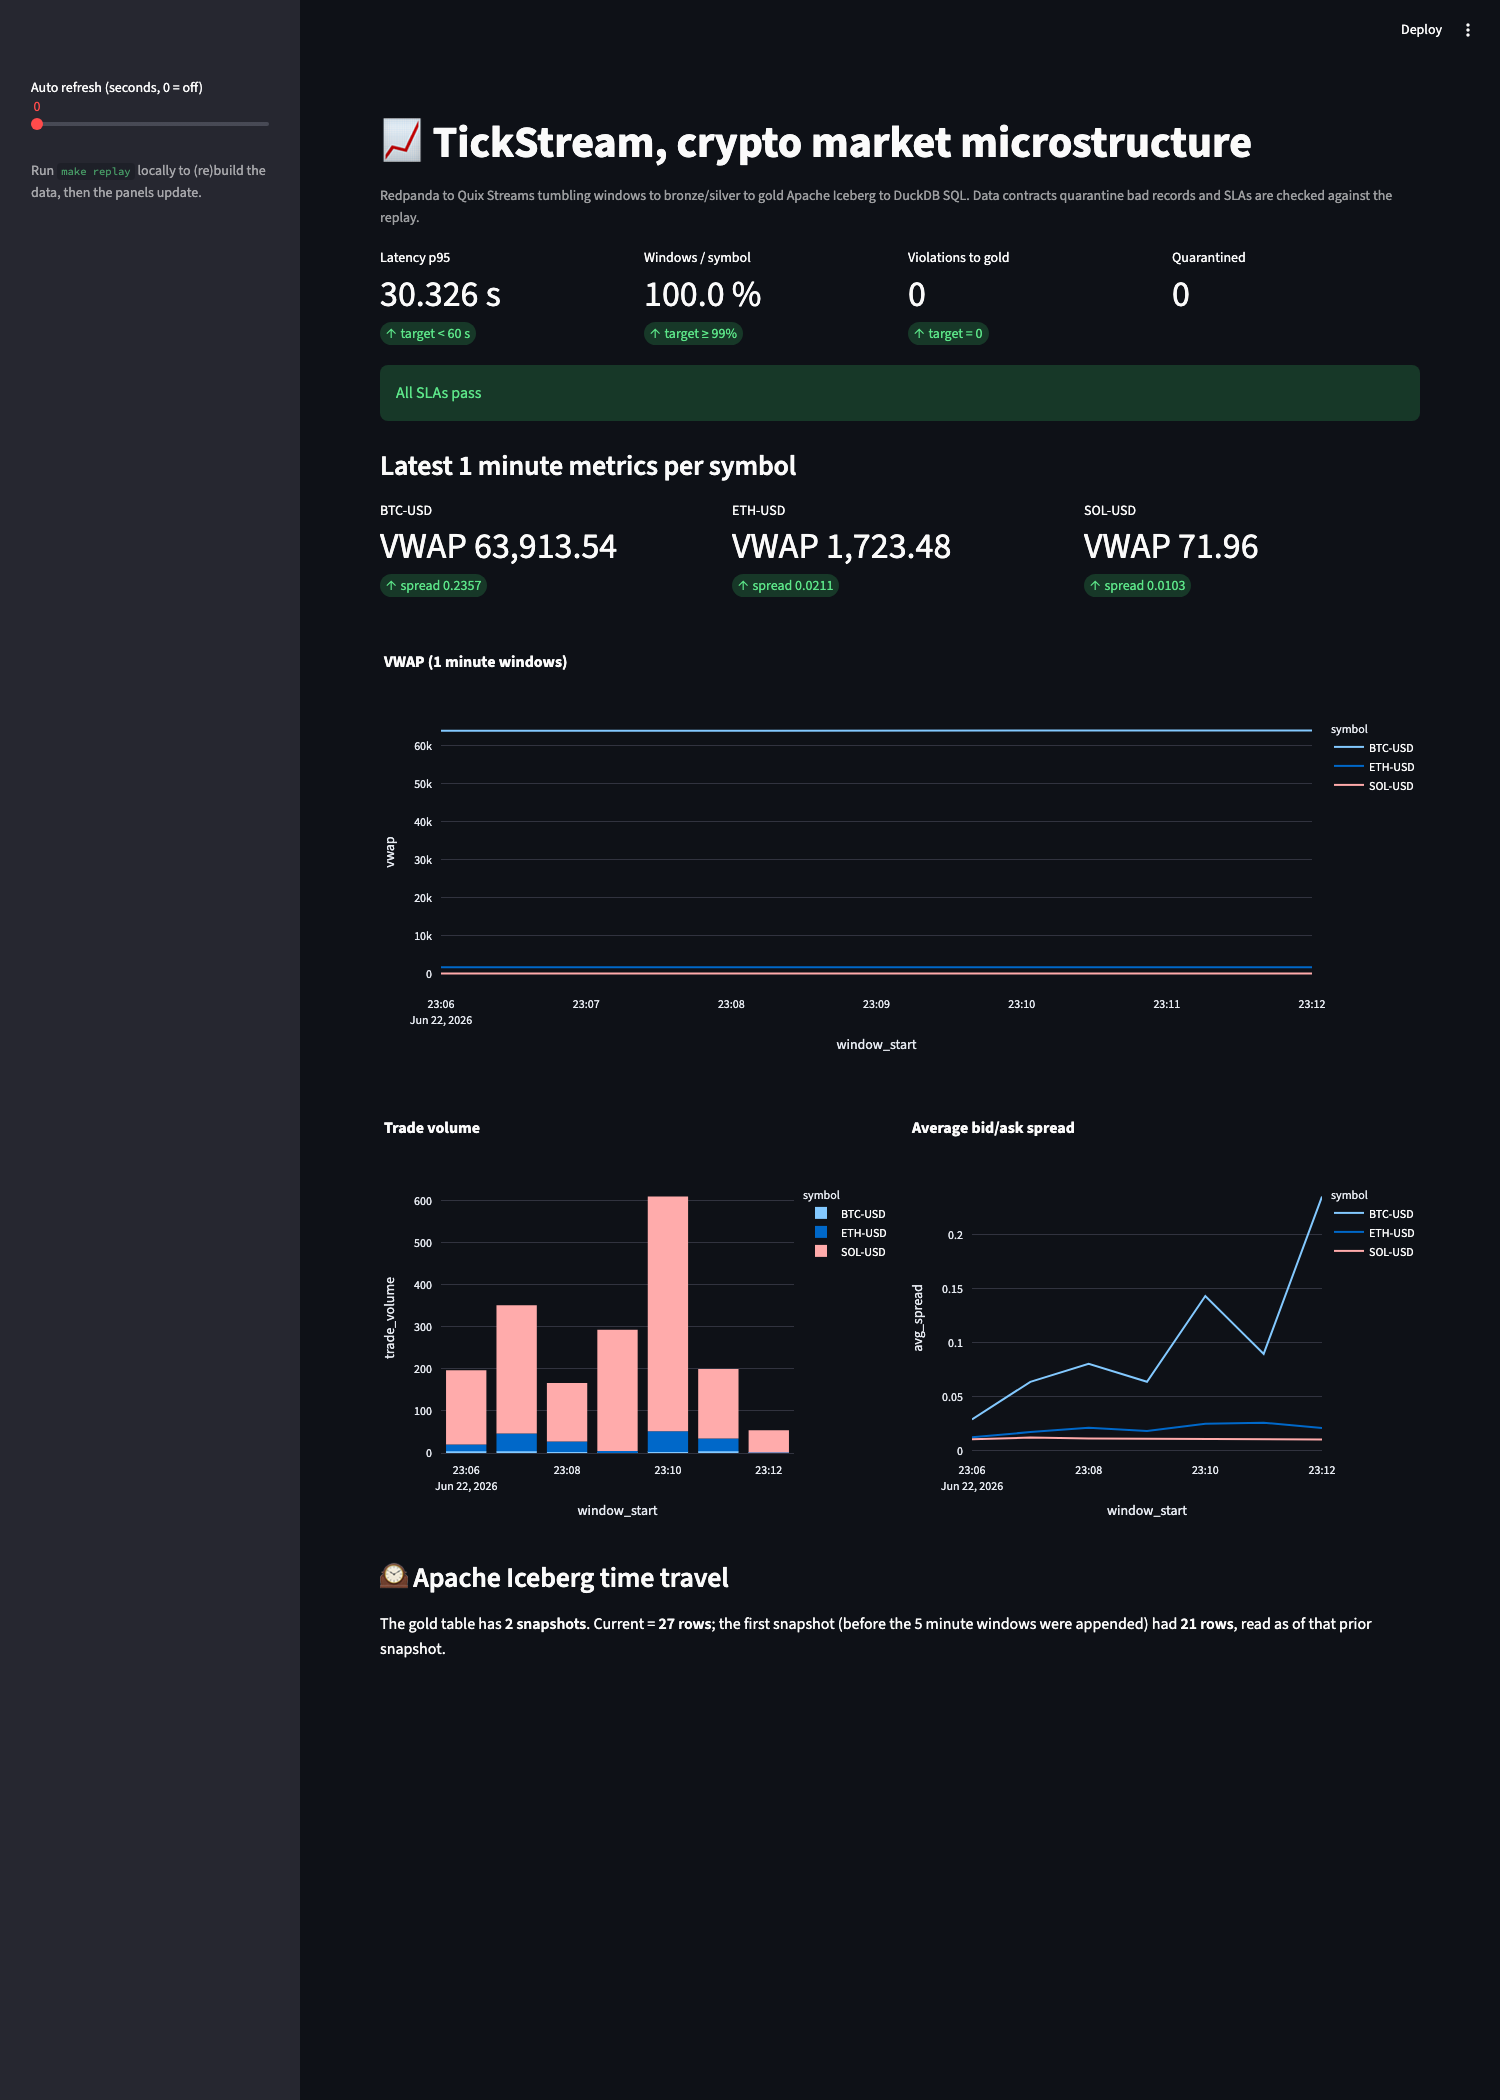
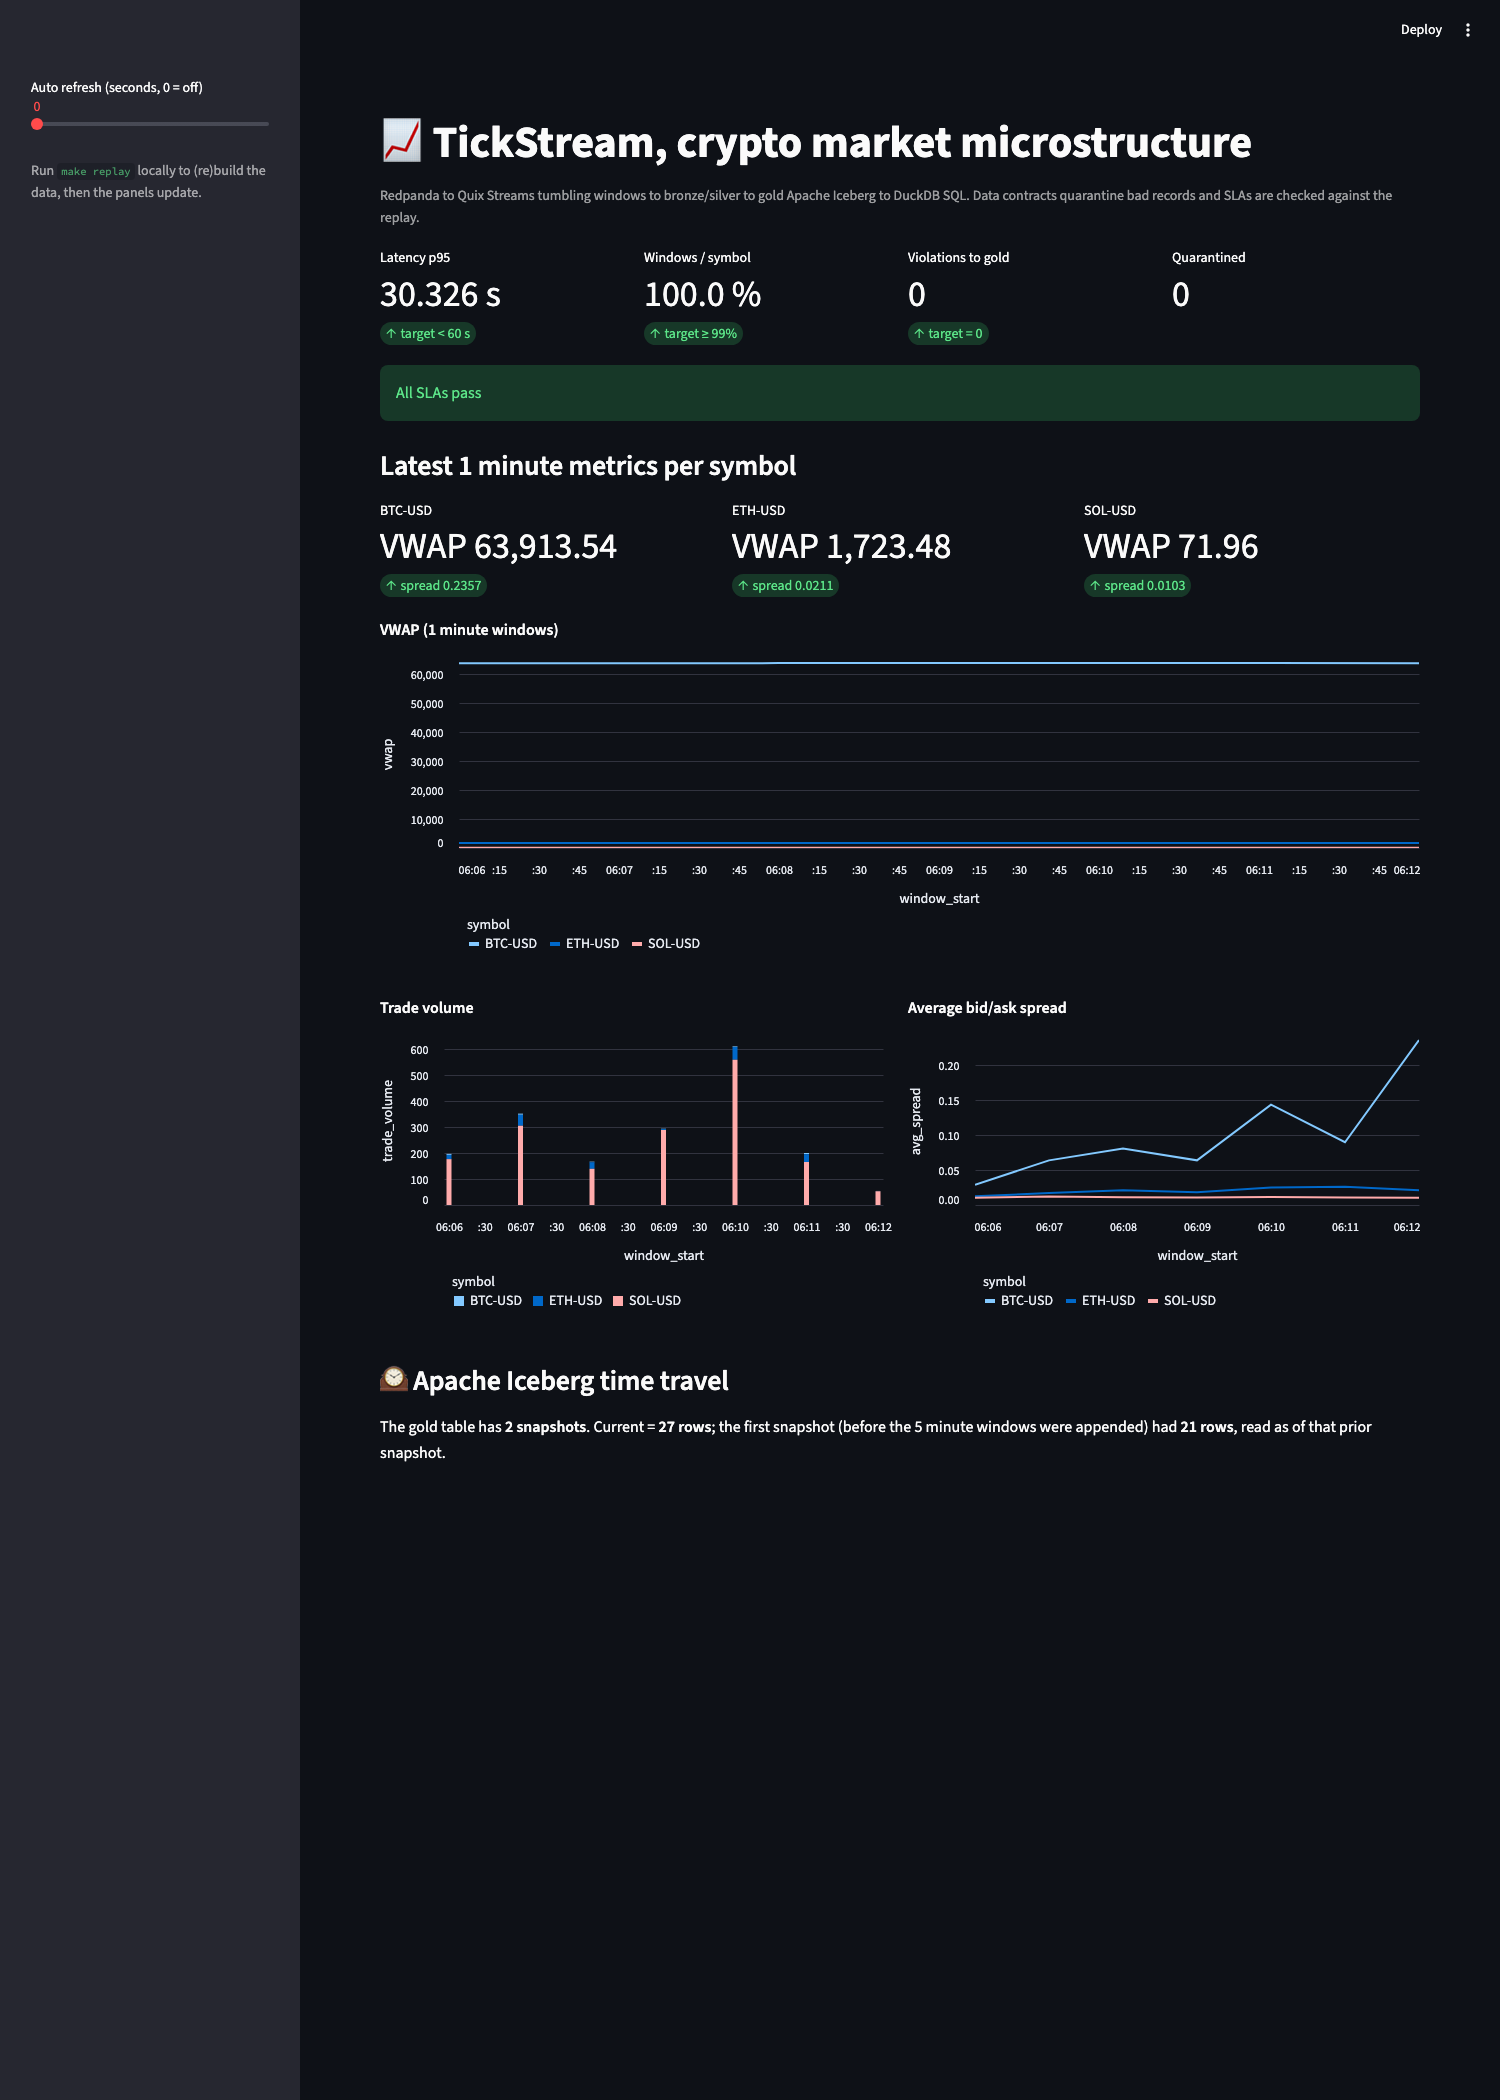
Use Streamlit native charts so the hosted dashboard deploys cleanly
Streamlit Community Cloud installs from uv.lock, which only carries the core
dependencies, so plotly (in the optional ui extra) was missing and the app
crashed with ModuleNotFoundError. Switched the charts to Streamlit's built in
line and bar charts, which need only streamlit and pandas, and dropped plotly
from the project entirely. Refreshed the dashboard screenshot and the PDF.

diff --git a/src/tickstream/ui/dashboard.py b/src/tickstream/ui/dashboard.py
@@ -18,7 +18,6 @@ import os
 from pathlib import Path
 
 import pandas as pd
-import plotly.express as px
 import streamlit as st
 
 # dashboard.py lives at src/tickstream/ui/ ; the committed snapshot is at the repo root.
@@ -114,21 +113,17 @@ for col, (_, row) in zip(cols, latest.iterrows(), strict=False):
 
 trades = one_min[one_min["trade_count"] > 0]
 ticks = one_min[one_min["ticker_count"] > 0]
-st.plotly_chart(
-    px.line(trades, x="window_start", y="vwap", color="symbol", title="VWAP (1 minute windows)"),
-    use_container_width=True,
-)
+
+st.markdown("**VWAP (1 minute windows)**")
+st.line_chart(trades, x="window_start", y="vwap", color="symbol", height=320)
+
 left, right = st.columns(2)
-left.plotly_chart(
-    px.bar(trades, x="window_start", y="trade_volume", color="symbol", title="Trade volume"),
-    use_container_width=True,
-)
-right.plotly_chart(
-    px.line(
-        ticks, x="window_start", y="avg_spread", color="symbol", title="Average bid/ask spread"
-    ),
-    use_container_width=True,
-)
+with left:
+    st.markdown("**Trade volume**")
+    st.bar_chart(trades, x="window_start", y="trade_volume", color="symbol", height=300)
+with right:
+    st.markdown("**Average bid/ask spread**")
+    st.line_chart(ticks, x="window_start", y="avg_spread", color="symbol", height=300)
 
 st.subheader("🕰️ Apache Iceberg time travel")
 st.write(